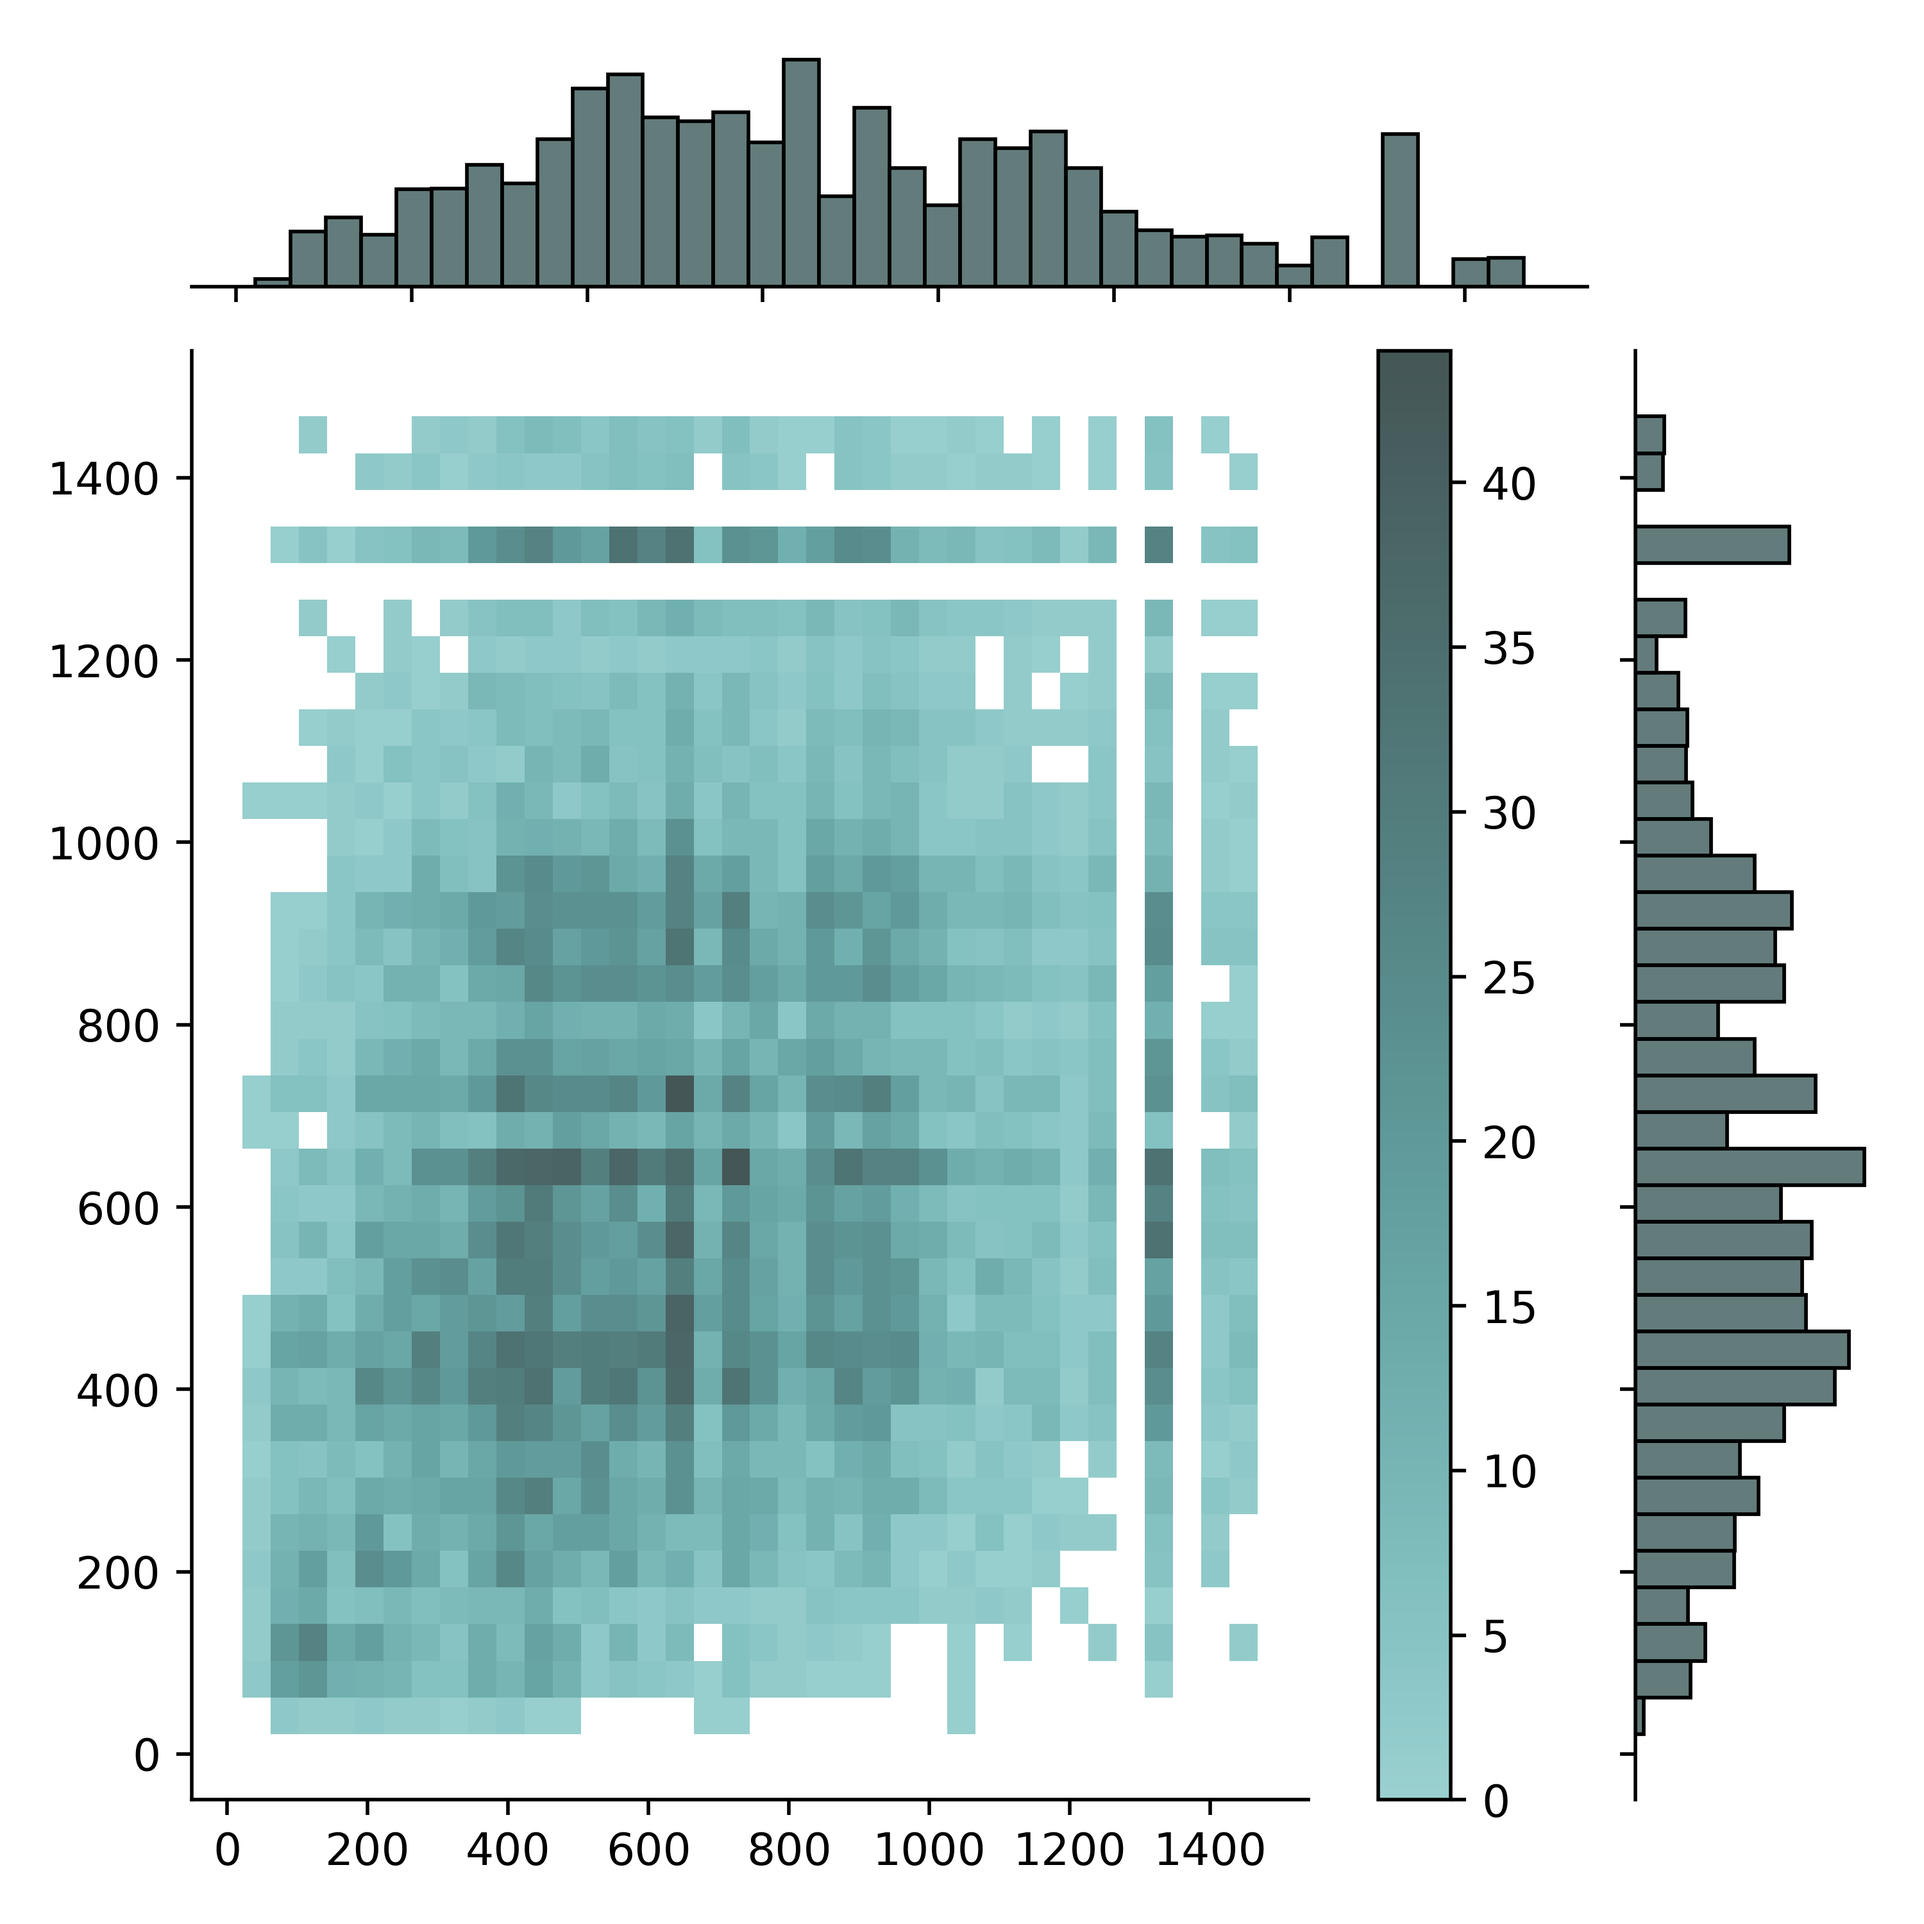
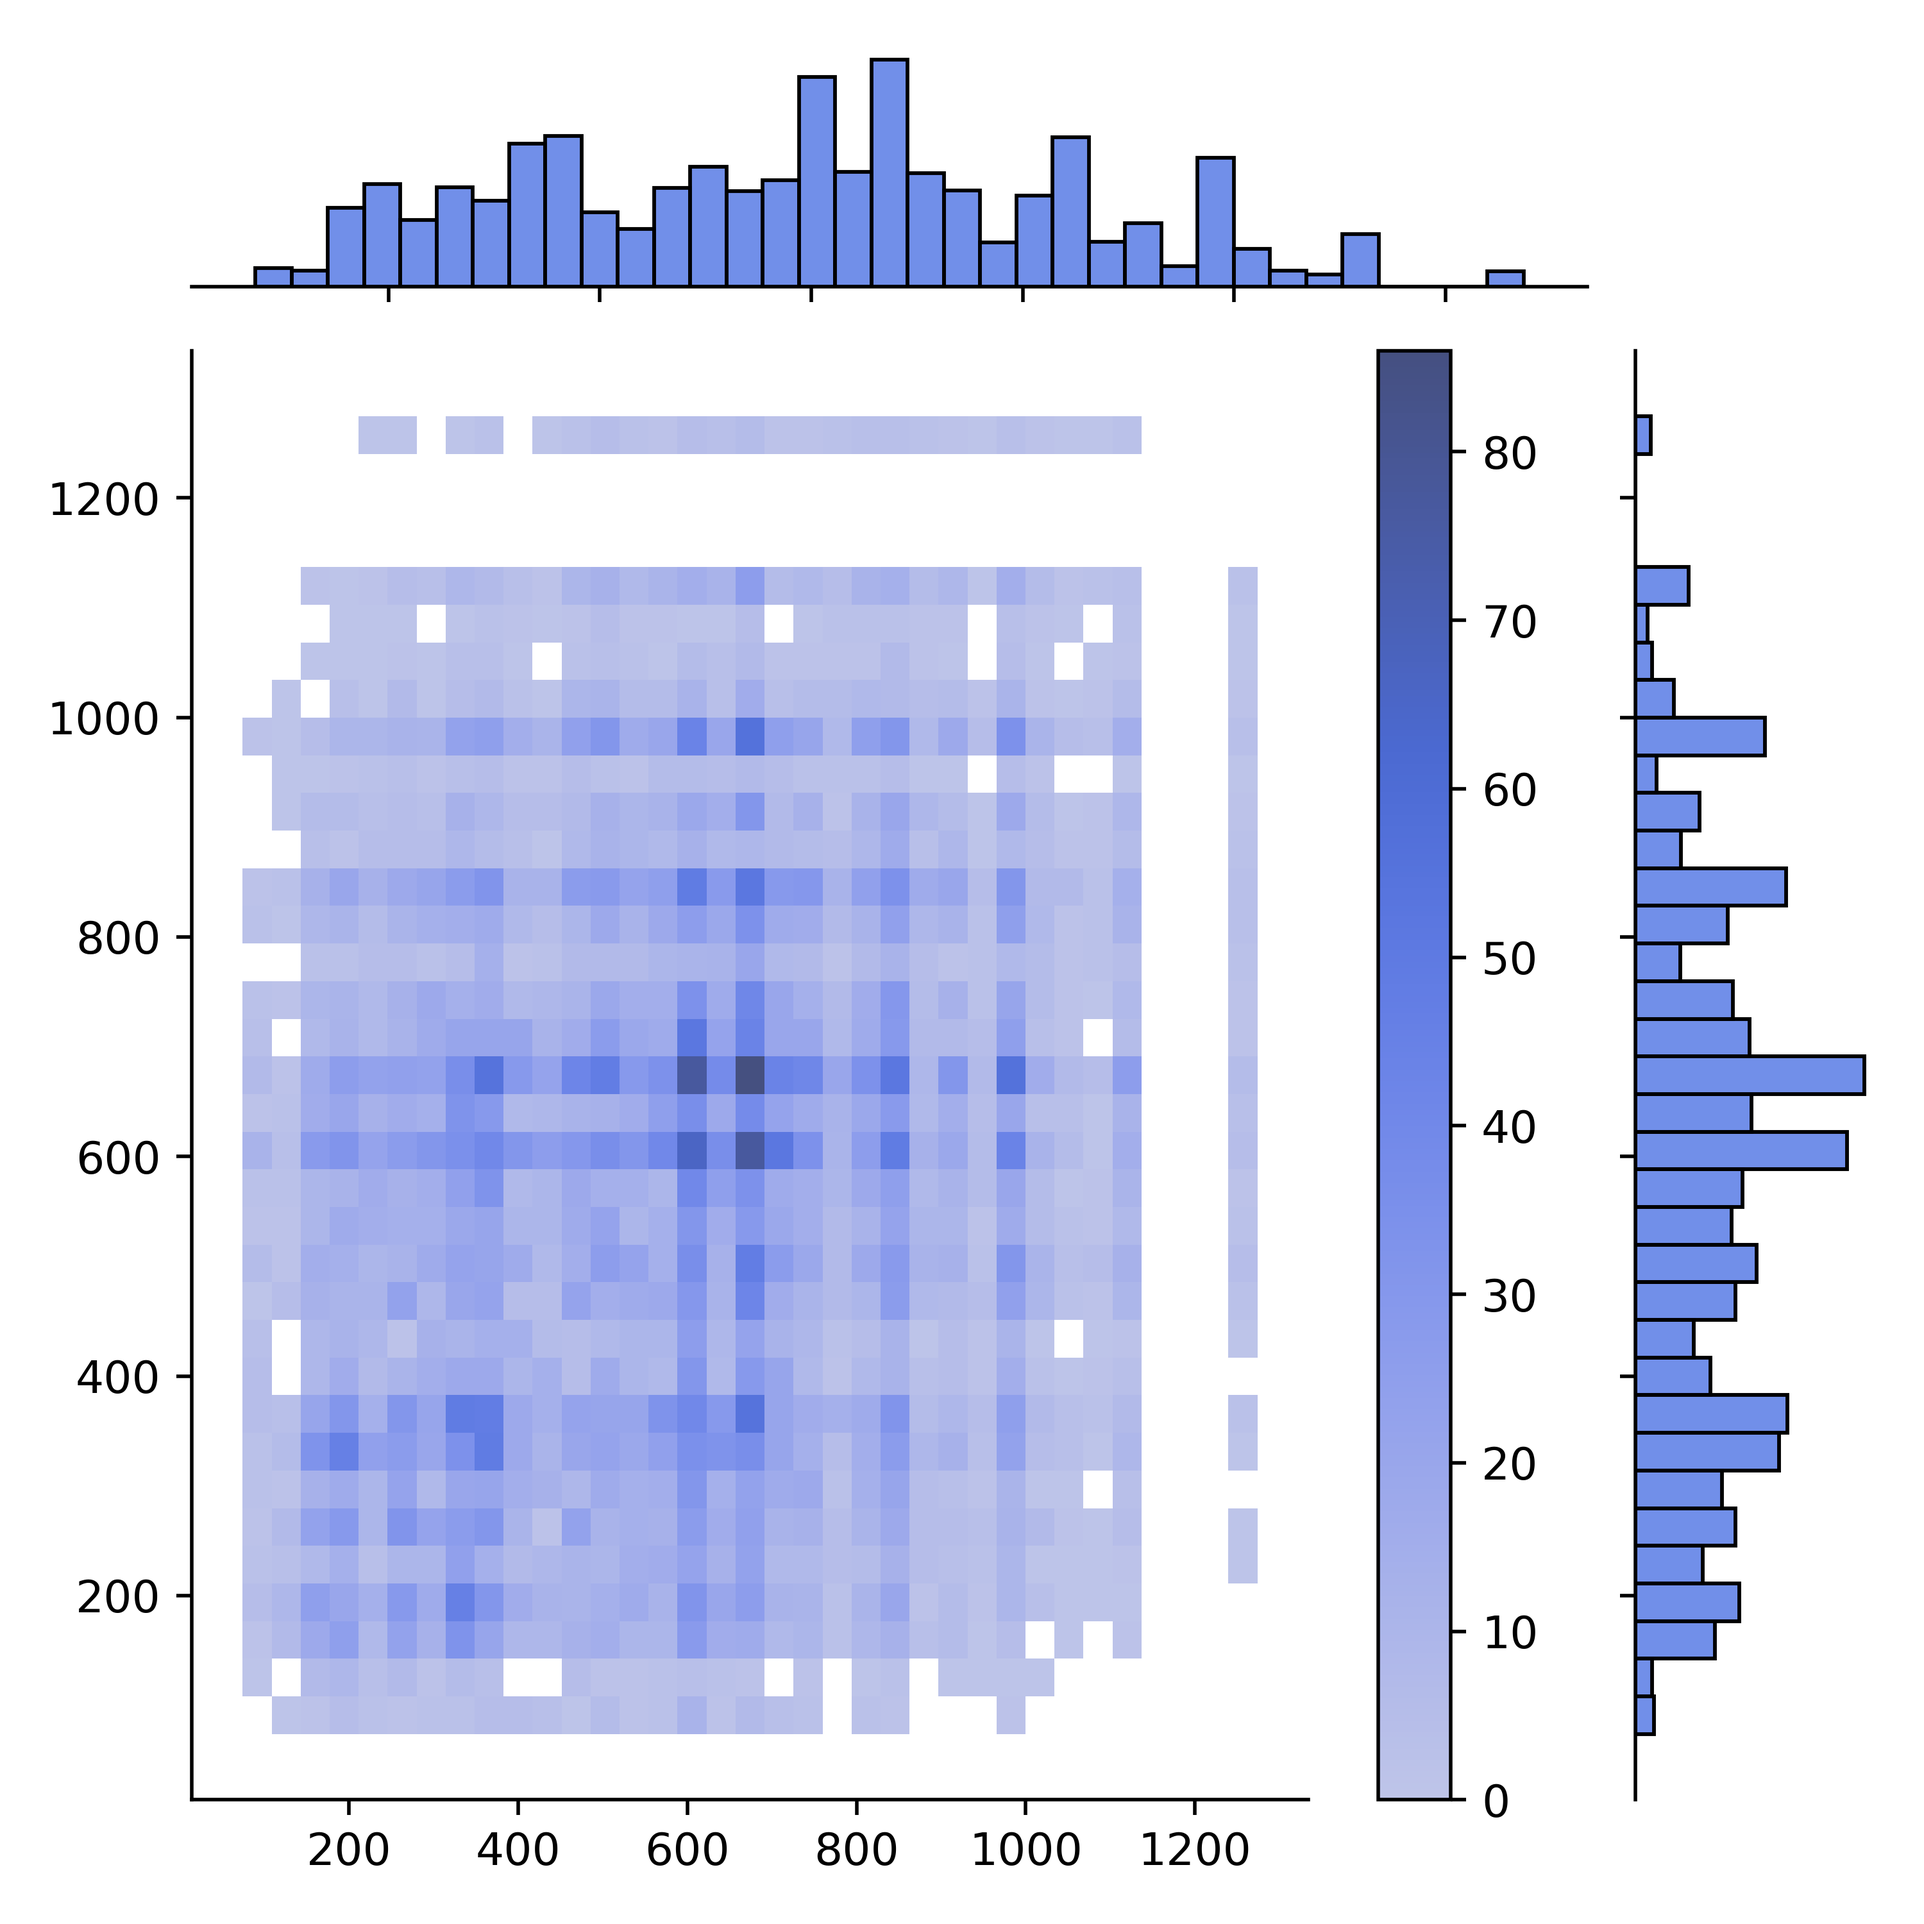
final cleanup

diff --git a/.vscode/random_networks.py b/.vscode/random_networks.py
@@ -6,7 +6,7 @@ import matplotlib.pyplot as plt
 graph1 = nx.Graph()  # day1
 graph2 = nx.Graph()  # day2
 
-with open("dayOneNewIndex.csv", mode="r") as primarySchoolData:
+with open("./data/dayOneNewIndex.csv", mode="r") as primarySchoolData:
 
     for line in primarySchoolData:
         temp = list(map(lambda x: x.strip(), line.split(",")))
@@ -16,7 +16,7 @@ with open("dayOneNewIndex.csv", mode="r") as primarySchoolData:
         graph1.add_edge(int(temp[1]), int(temp[2]), weight=int(temp[5]))
         graph1.add_edge(int(temp[1]), int(temp[2]), weight=int(temp[5]))
 
-with open("dayTwoNewIndex.csv", mode="r") as primarySchoolData:
+with open("./data/dayTwoNewIndex.csv", mode="r") as primarySchoolData:
 
     for line in primarySchoolData:
         temp = list(map(lambda x: x.strip(), line.split(",")))
@@ -129,11 +129,11 @@ def main():
     WS = nx.watts_strogatz_graph(237, 50, 0.4)
     BA = nx.barabasi_albert_graph(237, 28)
 
-    histDistributionLog(ER, True, True, wait=True, label="ER", col="darkgoldenrod")
-    histDistributionLog(WS, True, True, wait=True, label="WS", col="olivedrab")
-    histDistributionLog(BA, True, True, wait=True, label="BA", col="tan")
-    histDistributionLog(graph1, True, True, wait=True, label="Day 1", col="rosybrown")
-    histDistributionLog(graph2, True, True, wait=False, label="Day 2", col="cadetblue")
+    # histDistributionLog(ER, True, True, wait=True, label="ER", col="darkgoldenrod")
+    # histDistributionLog(WS, True, True, wait=True, label="WS", col="olivedrab")
+    # histDistributionLog(BA, True, True, wait=True, label="BA", col="tan")
+    # histDistributionLog(graph1, True, True, wait=True, label="Day 1", col="rosybrown")
+    # histDistributionLog(graph2, True, True, wait=False, label="Day 2", col="cadetblue")
 
     print("day1")
     general_analysis(graph1)
@@ -146,5 +146,3 @@ def main():
     print("BA")
     general_analysis(BA)
 
-
-main()

diff --git a/.vscode/ReadPrimarySchoolDataLunchClassDivide.py b/.vscode/ReadPrimarySchoolDataLunchClassDivide.py
@@ -23,7 +23,7 @@ def checkIfInteractionExists(day, temp):
 
 
 def readPrimaryschool(klasse, day):
-    with open("Realprimaryschool.csv", mode="r") as primarySchoolData:
+    with open("./data/Realprimaryschool.csv", mode="r") as primarySchoolData:
         newLunch = []
         separation_points = []
 
@@ -53,7 +53,7 @@ def readPrimaryschool(klasse, day):
 
 
 def readPrimaryschool2(klasse, day):
-    with open("Realprimaryschool.csv", mode="r") as primarySchoolData:
+    with open("./data/Realprimaryschool.csv", mode="r") as primarySchoolData:
         newLunch = []
         separation_points = []
 
@@ -156,7 +156,7 @@ for i, klasse_degrees in enumerate(alle_klasse_degrees):
     if i == 3:
         continue
 
-    plt.scatter(Y, klasse_degrees, c=colors[i], label=f"{i+1}. class", alpha=0.8)
+    plt.scatter(Y, klasse_degrees, c=colors[i], label=f"Grade {i+1}", alpha=0.8)
 
 plt.ylabel("Number of interactions")
 plt.xlabel("Minutes since midnight")
@@ -167,12 +167,12 @@ for i, klasse_degrees in enumerate(alle_klasse_degrees):
     # if i == 3:
     #     continue
 
-    plt.plot(Y, klasse_degrees, c=colors[i], label=f"{i+1}. class", alpha=0.8)
+    plt.plot(Y, klasse_degrees, c=colors[i], label=f"Grade {i+1}", alpha=0.8)
 
 plt.legend()
 plt.ylabel("Number of interactions")
 plt.xlabel("Minutes since midnight")
-plt.savefig("Degree_distribution_day2", transparent=True, dpi=500)
+plt.savefig("./fig_master/Degree_distribution_day2", transparent=True, dpi=500)
 plt.show()
 
 # print(alle_klasse_degrees)

diff --git a/main_analysis_run.py b/main_analysis_run.py
@@ -266,7 +266,7 @@ def getGradeChanges(graph: nx.Graph) -> list:
     return list(d.values()), list(d.keys())
 
 
-def test_table(A_M: np.Array, grade_list: list, class_name: list) -> pd.DataFrame:
+def test_table(A_M, grade_list: list, class_name: list) -> pd.DataFrame:
     """Function to return a dataframe of an adjacency matric for a given graph to aid makeheatmap function"""
     ids = [i for i in range(0, sum(grade_list) + 1)]
     seasons = []
@@ -356,7 +356,7 @@ def makeHeatMap(graph: nx.Graph, ax=None, output=False, wait=True):
     if not ax:
         ax = fig.add_subplot(111)
 
-    sns.heatmap(df, yticklabels=False, robust=True, ax=ax)
+    sns.heatmap(df, yticklabels=False, robust=False, ax=ax)
     labels = ["" for _ in ax.get_yticklabels()]
     ax.set_yticklabels(labels)
     ax.set_ylabel("")
@@ -1092,3 +1092,4 @@ def general_analysis(graph: nx.Graph) -> None:
         betw.append(bet)
     print(f"Average betweenness centrality: {np.mean(betw)}")
     print("-----------------------------------")
+

diff --git a/create_images.py b/create_images.py
@@ -298,7 +298,7 @@ def plot_deg(G, wait=True, label=None, col="rosybrown"):
         plt.show()
 
 
-def plotDegreeDegreeConnection(graph, weight):
+def plotDegreeDegreeConnection(graph: nx.Graph, weight: bool):
     """Plots assortativity between connected nodes with regard to degree
 
     Parameters
@@ -324,7 +324,7 @@ def plotDegreeDegreeConnection(graph, weight):
             xdata.append(graph.degree(j))
             ydata.append(graph.degree(i))
 
-    sns.jointplot(x=xdata, y=ydata, kind="hist", cbar=True, color="darkslategrey")  # hist,  cbar=True
+    sns.jointplot(x=xdata, y=ydata, kind="hist", cbar=True, color="royalblue")  # hist,  cbar=True
 
     plt.tight_layout()
 
@@ -504,3 +504,4 @@ def pixel__dist_layers():
     pixelDist(grade_grade, logX=True, logY=True, label="Grade", col="darkkhaki")
     pixelDist(day1, logX=True, logY=True, label="Whole", col="silver")
     pixelDist(class_class, logX=True, logY=True, label="Class", wait=False)
+

diff --git a/temporal.py b/temporal.py
@@ -185,7 +185,7 @@ def histDistWholeday(file, day, logX=False, logY=True):
             lab = str(i) + ":00"
         histDistributionLog(graph, logX, logY, wait=True, label=lab)
     plt.legend()
-    plt.savefig("/fig_master/CumulativeDistHourly_Day2.png", bbox_inches="tight", dpi=150)
+    # plt.savefig("./data/fig_master/CumulativeDistHourly_Day2.png", bbox_inches="tight", dpi=150)
     plt.show()
 
 

diff --git a/README.md b/README.md
@@ -3,7 +3,7 @@
 The current github repository contains all methods, code and data used to analyse the primary school interaction dataset by Barrat et al. [^1] for Sara Johanne Asche's master thesis on modelling the spread of COVID-19
 in Primary schools.
 
-## Structure
+## Contents
 
 All the data analysed and output from the model can be found in the data folder. Furthermore figures generated are placed in fig_master. Since linear regression was plotted for all single nodes, the generated images are placed in the separate folder R2_img.
 
@@ -11,7 +11,7 @@ dataPreperation.py contains the documentation on how a 20-second contact dataset
 
 Functions in create_images.py are used to generate interaction and degree distributions, heatmaps, plot the graph, generate random networks, plot assortativity between day one and two and when investigating whether or not there was a bias for students to interact with other students of the same grade. The image below shows for instance the assortativity described in the thesis generated using `plotDegreeDegreeConnection()`.
 
-![This is an image](https://github.com/SaraAsche/PrimarySchool/blob/master/fig_master/Assortativity2.png))
+![This is an image](https://github.com/SaraAsche/PrimarySchool/blob/master/fig_master/Assortativity2.png)
 
 main_analysis_run.py contains most of the main analysis that has been run on the empiric primary school data.
 Each nx.Graph objects is generated each time the file is run, based on an accumulated interaction csv generated in dataPreperation.py
